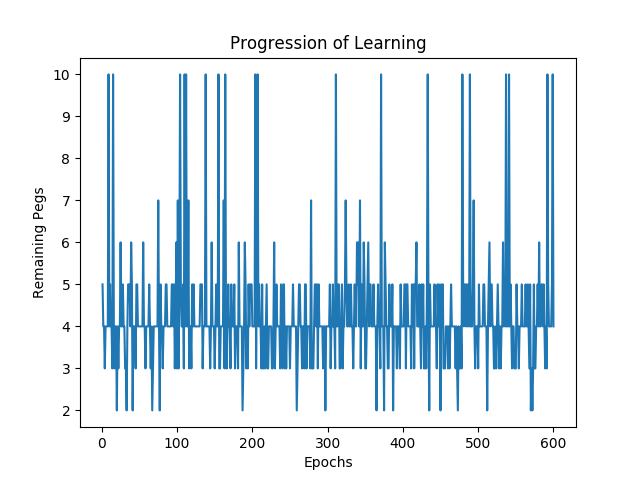
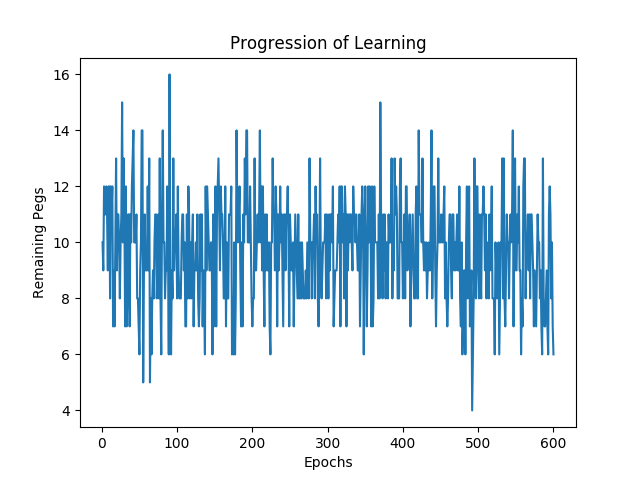
Configs for all tasks added

diff --git a/agent/critic.py b/agent/critic.py
@@ -2,9 +2,7 @@ from abc import ABC, abstractmethod
 from collections import defaultdict
 import random
 import logging
-
 from models import NNCritic
-from torch.optim import Adam
 import torch
 
 
@@ -123,8 +121,10 @@ class NeuralCritic(Critic):
     def __init__(self, config):
         super(NeuralCritic, self).__init__(config)
         self.value_function = NNCritic(config["critic_layer_specs"])  # A neural network used as the value function (V)
-        self.optimizer = Adam(self.value_function.parameters(), lr=config["lr_critic"])
         self.eligibility = [torch.zeros(param.shape) for param in self.value_function.parameters()]
+
+        # Stats
+        self.values = []
 
     def get_value(self, state):
         """
@@ -135,38 +135,52 @@ class NeuralCritic(Critic):
         state = list(map(int, list(state)))
         state = torch.FloatTensor(state)
         value = self.value_function(state)
+        self.values.append(value.item())
         return value
 
-    def update_value(self, state):
+    def update_weights(self, state):
         """
-        with torch.no_grad():
-            for p, eligibility in zip(self.value_function.parameters(), self.eligibility):
-                new_val = p + self.config["lr_critic"] * self.td_error * eligibility
-                p.copy_(new_val)
-
-        with torch.no_grad():
-            for i, weight in enumerate(self.value_function.parameters()):
-
-                eligibility_trace = self.config["df_critic"] * self.config["lr_critic"] * self.eligibility[i]
-                torch.add(weight, eligibility_trace)
+        Given a state, forward it through the network then backprop to calculate grad.
+        Iterate over all weights and follow this update rule:
+            e_i = e_i + \frac{dV(s_t)}{dw_i}
+            w_i = w_i + learning_rate * td_error * e_i
         """
-        self.optimizer.zero_grad()
+        self.value_function.zero_grad()
         outputs = self.get_value(state)
         outputs.backward()
         for i, weight in enumerate(self.value_function.parameters()):
             self.eligibility[i] += weight.grad
-            weight.grad = -self.td_error * self.eligibility[i]
-        self.optimizer.step()
+            weight.data.add_(self.config["lr_critic"] * self.td_error * self.eligibility[i])
 
-    def update_eligibility(self, state):
-        # with torch.no_grad():
-        # for p, eligibility in zip(self.value_function.parameters(), self.eligibility):
-        # new_val = eligibility + p.grad
-        # eligibility.copy_(new_val)
-        pass
+    def update_eligibility(self, is_current_state=False):
+        """
+        The update rule is defined as:
+        if state is current state:
+            e_i = 1
+        else:
+            e_i = discount_factor * trace_decay_factor * e_i
+        """
+        for i, _ in enumerate(self.eligibility):
+            if is_current_state:
+                self.eligibility[i].apply_(lambda x: 1)
+            else:
+                self.eligibility[i] *= self.config["df_critic"] * self.config["dr_critic"]
 
     def reset_eligibility(self):
-        self.eligibility = [torch.zeros(param.shape) for param in self.value_function.parameters()]
+        """
+        Reset eligibility back to default
+        """
+        for i, _ in enumerate(self.eligibility):
+            self.eligibility[i].apply_(lambda x: 0)
 
     def report_critic_stats(self):
-        pass
+        """
+        Log general stats about what the critic has calculated during its existence
+        """
+        avg_value = sum(self.values) / len(self.values)
+        avg_td_error = sum(self.td_errors) / len(self.td_errors)
+        logging.info("Critic: ")
+        logging.info("\t Total values calculated: {}".format(len(self.values)))
+        logging.info("\t Avg value function values: {}".format(avg_value))
+        logging.info(
+            "\t Avg TD errors: {}".format(avg_td_error if isinstance(avg_td_error, float) else avg_td_error.item()))

diff --git a/main.py b/main.py
@@ -5,17 +5,19 @@ from agent.reinforcement_learner import ReinforcementLearner
 from plotting import plot_progression_of_learning
 import random
 import torch
+import numpy as np
 
 if __name__ == '__main__':
     init_logger()
     # random.seed(42)
     # torch.manual_seed(42)
-    config_path = "configs/task_2_table.yaml"
+    config_path = "configs/task_4.yaml"
 
     # Load settings for this run
     config = load_config(config_path)
     training_config = config["Training"]
-    logging.info(config)
+    for key in config.keys():
+        logging.info("{}: {}".format(key, config[key]))
 
     # Initialize the Simulated World
     sim_world = SimWorld(config)
@@ -29,14 +31,16 @@ if __name__ == '__main__':
 
     # Log for remaining pegs at the end of each game
     remaining_pegs_pr_episode = []
+    rewards = []
 
     # Start the generic actor-critic algorithm
     for episode in range(1, training_config["episodes"] + 1):
         if episode % 50 == 0:
-            logging.info("Episode: {}".format(episode))
+            logging.info("Episode: {} - Avg Rewards: {}".format(episode, np.mean(rewards)))
 
         # If it is the last episode - no random actions should be selected
         if episode == training_config["episodes"]:
+            logging.info("Epsilon = 0")
             actor.set_epsilon(0)
         else:
             actor.update_epsilon()
@@ -56,15 +60,17 @@ if __name__ == '__main__':
 
             # Do action action from state, moving it to new_state and return reward
             new_state, reward = sim_world.perform_action(action)
+            rewards.append(reward)
 
             # Get the action devoted to the new state by current policy
             new_action = actor.get_action(new_state)
-            actor.update_eligibility(state, action, is_current_state=True)
 
             # Calculate the Temporal Difference error
             td_error = critic.get_td_error(state, new_state, reward)
             actor.set_td_error(td_error)
-            critic.update_eligibility(state, is_current_state=True)
+
+            # Set eligibility to 1 for both actor and critic
+            rl.set_eligibility(state, action, is_current_state=True)
 
             # For all (state, action) pairs in this episode
             for s, a in current_episode:

diff --git a/agent/reinforcement_learner.py b/agent/reinforcement_learner.py
@@ -34,16 +34,30 @@ class ReinforcementLearner:
         :return: None
         """
         # Update Critic
-        if isinstance(self.critic, TableCritic):
+        if self.config["Critic"]["table_lookup"]:
             self.critic.update_value(state)
             self.critic.update_eligibility(state)
         else:
-            self.critic.update_value(state)
-            self.critic.update_eligibility(state)
-
+            self.critic.update_weights(state)
+            self.critic.update_eligibility()
         # Update Actor
         self.actor.update_policy(state, action)
         self.actor.update_eligibility(state, action)
+
+    def set_eligibility(self, state, action, is_current_state):
+        """
+        Set the eligibility for both critic and actor to 1 using their update functions
+        :param state: str
+        :param action: Action
+        :param is_current_state: boolean
+        :return: None
+        """
+        if self.config["Critic"]["table_lookup"]:
+            self.critic.update_eligibility(state, is_current_state)
+        else:
+            self.critic.update_eligibility(is_current_state)
+
+        self.actor.update_eligibility(state, action, is_current_state)
 
     def reset_eligibility(self):
         """

diff --git a/agent/actor.py b/agent/actor.py
@@ -89,6 +89,7 @@ class Actor:
             e_t(state, action) = discount_factor * trace_factor * e_{t-1}(state, action)
         :param state: str
         :param action: Action
+        :param is_current_state: boolean
         :return: None
         """
         if is_current_state:
@@ -115,5 +116,5 @@ class Actor:
         logging.info("ACTOR: ")
         logging.info("\t {} of {} actions where random: {}%".format(self.random_actions, self.total_actions, p))
         logging.info("\t Epsilon ended at: {}".format(self.last_epsilon))
-        logging.info("\t Avg policy values: {}".format(avg_policy))
+        logging.info("\t Avg policy values: {}".format(avg_policy if isinstance(avg_policy, float) else avg_policy.item()))
         logging.info("\t Avg eligibility values: {}".format(avg_eligibility))

diff --git a/agent/models.py b/agent/models.py
@@ -19,7 +19,8 @@ class NNCritic(nn.Module):
         for x in range(1, len(layer_specs)):
             layer = nn.Linear(in_features=layer_specs[x - 1], out_features=layer_specs[x])
             self.model.add_module("Layer {}".format(x), layer)
-            self.model.add_module("ReLU {}".format(x), nn.ReLU(inplace=True))
+            if x < len(layer_specs) - 1:
+                self.model.add_module("ReLU {}".format(x), nn.ReLU(inplace=True))
 
         self.model.apply(init_weights)
 

diff --git a/environment/visualizer.py b/environment/visualizer.py
@@ -29,13 +29,13 @@ class BoardVisualizer:
             G.add_edges_from(neighbours)
         return G
 
-    def animate(self):
+    def animate(self, path):
         """
         Animate each step to a gif
         """
         animation = self.camera.animate(
             repeat=False, interval=self.config['frame_delay'])
-        animation.save("graphs/animation.gif")
+        animation.save(path)
         plt.show()
 
     def draw(self, action=None):

diff --git a/environment/sim_world.py b/environment/sim_world.py
@@ -83,4 +83,4 @@ class SimWorld:
                 board_drawer.draw(action=action)
                 self.player.perform_action(action)
                 board_drawer.draw()
-        board_drawer.animate()
+        board_drawer.animate(config["animation_path"])

diff --git a/utils.py b/utils.py
@@ -52,4 +52,3 @@ def is_empty(lst):
     :return: boolean
     """
     return len(lst) == 0
-
